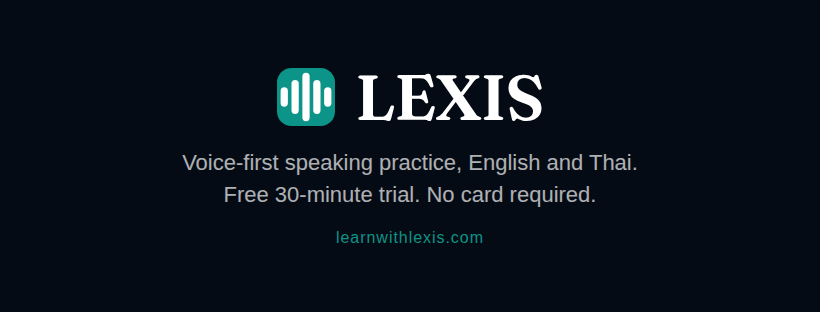
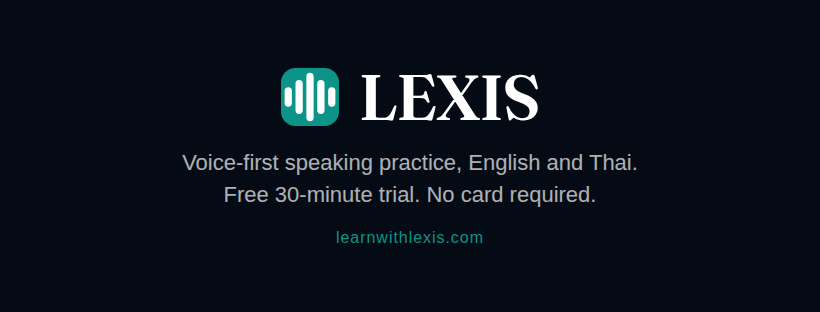
Fix the distorted display type: ship the right optical cut of Fraunces
Reported twice off the live site ("distorted letters"), and again against
the first version of the brand kit. It was never a rendering bug. It was
the wrong font file.

Fraunces is an optical-size family. public/fonts/fraunces-600.woff2 was a
STATIC instance cut at a small optical size: it renders pixel-identically
to Google's opsz=14 "text" cut, verified side by side. Text cuts carry
exaggerated stroke contrast and chunky serifs so they survive at 14px. As
this site's only display face, set at 40-60px headings and a 150px+
wordmark, those compensations read exactly as reported.

Two defaults in this family make the mistake easy, and are almost
certainly how the original file was produced: `opsz` defaults to 9, the
very smallest cut, and `WONK` defaults to 1, meaning the deliberately
wonky alternate glyphs are ON unless explicitly disabled.

Replaced with a variable subset that pins wght=600, SOFT=0 and WONK=0 but
deliberately leaves `opsz` live. Browsers apply font-optical-sizing:auto
by default and feed the used font-size into that axis, so a 16px label and
a 60px hero each get the cut they were drawn for, with no per-size CSS and
no JavaScript. Costs 23,956 bytes against 18,120: 5.8KB for correct
display type at every size.

Filename changes to fraunces-600-var.woff2 on purpose. Files in public/
are not fingerprinted by Vite, so reusing the name would have served
returning visitors the stale cached file indefinitely.
[…]

Changed region(s): [[0.3354, 0.2308, 0.6707, 0.4038]]

diff --git a/frontend/src/index.css b/frontend/src/index.css
@@ -4,15 +4,45 @@
 
 /* Self-hosted (frontend/public/fonts/) rather than a Google Fonts <link> —
    no extra DNS/connection round-trip, and it keeps working if that host is
-   ever blocked. Latin subset only, one weight (600) — the only place this
+   ever blocked. Latin subset, weight pinned to 600 — the only place this
    typeface is used is short display headlines (see tailwind.config.js's
-   `font-display`), not body copy, so the full family isn't needed. */
+   `font-display`), not body copy, so the full family isn't needed.
+
+   VARIABLE on one axis on purpose (26 Aug 2026). Fraunces is an
+   optical-size family. What shipped here until now was a STATIC instance
+   cut at a small optical size, which rendered identically to Google's
+   opsz=14 "text" cut: exaggerated stroke contrast and chunky serifs, drawn
+   so they survive at 14px. As this site's only display face, at 40-60px
+   headings and a 150px+ wordmark, those compensations read as distorted
+   letterforms. That was reported twice off the live site before it was
+   diagnosed, and it was never a rendering bug: it was the wrong cut.
+
+   `font-size-adjust` and per-heading CSS are not needed to fix it. Leaving
+   the `opsz` axis live is enough, because browsers apply
+   `font-optical-sizing: auto` by default and feed the used font-size into
+   that axis. A 16px label and a 60px hero now each get the optical size
+   they were actually drawn for. Declared explicitly below to document the
+   intent rather than rely on an unstated default.
+
+   Rebuild with frontend/scripts/fonts/build_fraunces_subset.py — do not
+   re-download a static instance by hand. Two axes in this family default
+   to values you almost certainly do not want (`opsz` to 9, the smallest
+   cut, and `WONK` to 1, wonky alternates ON), which is exactly how the
+   previous file went wrong. The script pins both. */
 @font-face {
   font-family: 'Fraunces';
   font-style: normal;
   font-weight: 600;
   font-display: swap;
-  src: url('/fonts/fraunces-600.woff2') format('woff2');
+  src: url('/fonts/fraunces-600-var.woff2') format('woff2');
+}
+
+/* `font-optical-sizing` is an element property, not an @font-face
+   descriptor, so it belongs here rather than in the block above. `auto` is
+   already the browser default; it is stated once, inheritably, so the
+   behaviour the font above depends on is written down instead of assumed. */
+html {
+  font-optical-sizing: auto;
 }
 
 /* Self-hosted Thai companion to the two faces above — same self-hosting

diff --git a/frontend/scripts/fonts/build_fraunces_subset.py b/frontend/scripts/fonts/build_fraunces_subset.py
@@ -1,0 +1,101 @@
+#!/usr/bin/env python3
+"""Rebuild public/fonts/fraunces-600-var.woff2.
+
+Why this script exists (26 Aug 2026):
+
+The file it replaces, fraunces-600.woff2, was a STATIC instance of Fraunces
+cut at a small optical size (it rendered identically to Google's opsz=14
+"text" instance). Fraunces is an optical-size family: its text cuts carry
+exaggerated stroke contrast and chunky serifs so they survive at 14px. Used
+as the site's only display face, at 40-60px headings and 150px+ wordmarks,
+those compensations read as distorted letterforms. That was reported twice
+from the live site before it was diagnosed.
+
+Two traps in this family make the mistake easy, and both are why this is a
+script rather than a one-off download:
+
+  - `opsz` defaults to 9, the very smallest cut, not to something neutral.
+  - `WONK` defaults to 1, i.e. the deliberately wonky alternate glyphs are
+    ON unless you explicitly turn them off.
+
+So instancing Fraunces without naming those two axes gives you the most
+idiosyncratic possible version of it.
+
+This builds a VARIABLE subset instead: weight pinned to 600, SOFT and WONK
+pinned to 0, and `opsz` deliberately left live. Browsers apply
+`font-optical-sizing: auto` by default, so every heading gets the optical
+size it was actually drawn for, with no per-size CSS. Costs about 6KB more
+than the static file did.
+
+Requires: pip install fonttools brotli
+Run from frontend/:  python3 scripts/fonts/build_fraunces_subset.py
+"""
+import io
+import os
+import sys
+import urllib.request
+
+from fontTools.ttLib import TTFont
+from fontTools.varLib.instancer import instantiateVariableFont
+from fontTools import subset
+
+SOURCE = (
+    'https://raw.githubusercontent.com/google/fonts/main/ofl/fraunces/'
+    'Fraunces%5BSOFT%2CWONK%2Copsz%2Cwght%5D.ttf'
+)
+OUT = os.path.join('public', 'fonts', 'fraunces-600-var.woff2')
+
+# Latin basic, the accented characters most likely to appear in a name, the
+# typographic punctuation the site uses, and the Thai baht sign, which shows
+# up in every price line the display face ever sets.
+UNICODES = (
+    list(range(0x20, 0x7F))
+    + [0x00A0, 0x00E1, 0x00E9, 0x00E8, 0x00EA, 0x00ED, 0x00F1, 0x00F3, 0x00FA, 0x00FC]
+    + [0x2018, 0x2019, 0x201C, 0x201D, 0x2013, 0x2014, 0x2026, 0x00B7, 0x00A9, 0x00AE]
+    + [0x0E3F]
+)
+
+
+def main():
+    print('fetching variable Fraunces from Google Fonts...')
+    raw = urllib.request.urlopen(SOURCE, timeout=120).read()
+    if len(raw) < 100_000:
+        sys.exit(f'unexpected download size ({len(raw)} bytes), aborting')
+
+    font = TTFont(io.BytesIO(raw))
+    axes = {a.axisTag: (a.minValue, a.defaultValue, a.maxValue) for a in font['fvar'].axes}
+    print('  source axes:', axes)
+
+    # Pin everything except opsz. See this file's docstring for why.
+    inst = instantiateVariableFont(font, {'wght': 600, 'SOFT': 0, 'WONK': 0})
+    remaining = [a.axisTag for a in inst['fvar'].axes]
+    if remaining != ['opsz']:
+        sys.exit(f'expected only opsz to remain variable, got {remaining}')
+
+    buf = io.BytesIO()
+    inst.save(buf)
+    buf.seek(0)
+
+    opts = subset.Options()
+    opts.flavor = 'woff2'
+    opts.desubroutinize = True
+    opts.layout_features = ['kern', 'liga', 'calt', 'ccmp', 'locl', 'mark', 'mkmk']
+    opts.name_IDs = ['*']
+    opts.name_legacy = True
+    opts.name_languages = ['*']
+    opts.recalc_bounds = True
+
+    subset_font = subset.load_font(buf, opts)
+    subsetter = subset.Subsetter(options=opts)
+    subsetter.populate(unicodes=UNICODES)
+    subsetter.subset(subset_font)
+    subset.save_font(subset_font, OUT, opts)
+
+    print(f'  wrote {OUT} ({os.path.getsize(OUT)} bytes)')
+    check = TTFont(OUT)
+    print('  final axes:', [(a.axisTag, a.minValue, a.maxValue) for a in check['fvar'].axes])
+    print('  glyphs:', check['maxp'].numGlyphs)
+
+
+if __name__ == '__main__':
+    main()

diff --git a/brand-kit/README.md b/brand-kit/README.md
@@ -166,8 +166,26 @@ the same values the live site uses, not a separate "marketing palette."
 
 ## 3. Typography
 
-- **Display/headlines (Latin):** Fraunces, weight 600 only, self-hosted
-  (`frontend/public/fonts/fraunces-600.woff2`). Falls back to Georgia/serif.
+- **Display/headlines (Latin):** Fraunces, weight 600, self-hosted
+  (`frontend/public/fonts/fraunces-600-var.woff2`). Falls back to
+  Georgia/serif.
+
+  **This is a variable font on the `opsz` (optical size) axis, and that
+  matters.** Fraunces is an optical-size family: its small cuts have
+  exaggerated stroke contrast and chunky serifs so they hold up at 14px,
+  and those same compensations look distorted blown up to a headline. The
+  file shipping here until 26 Aug 2026 was a static small-optical-size cut,
+  which is exactly why display type across the site and the first version
+  of this kit looked wrong. Browsers apply `font-optical-sizing: auto` by
+  default, so with the axis left live every size now gets the cut it was
+  drawn for, with no per-size CSS.
+
+  If you ever hand this font to a designer or a print shop, tell them the
+  same thing: set the optical size to match the size they are setting at.
+  And if you rebuild the file, use
+  `frontend/scripts/fonts/build_fraunces_subset.py`, never a hand-picked
+  static download. Two axes in this family default to values you do not
+  want (`opsz` to 9, the smallest cut; `WONK` to 1, wonky alternates ON).
 - **Body (Latin):** system sans stack (no webfont — see
   `tailwind.config.js`'s comment on why: a named-but-never-loaded font is
   worse than an honest system-font fallback).
